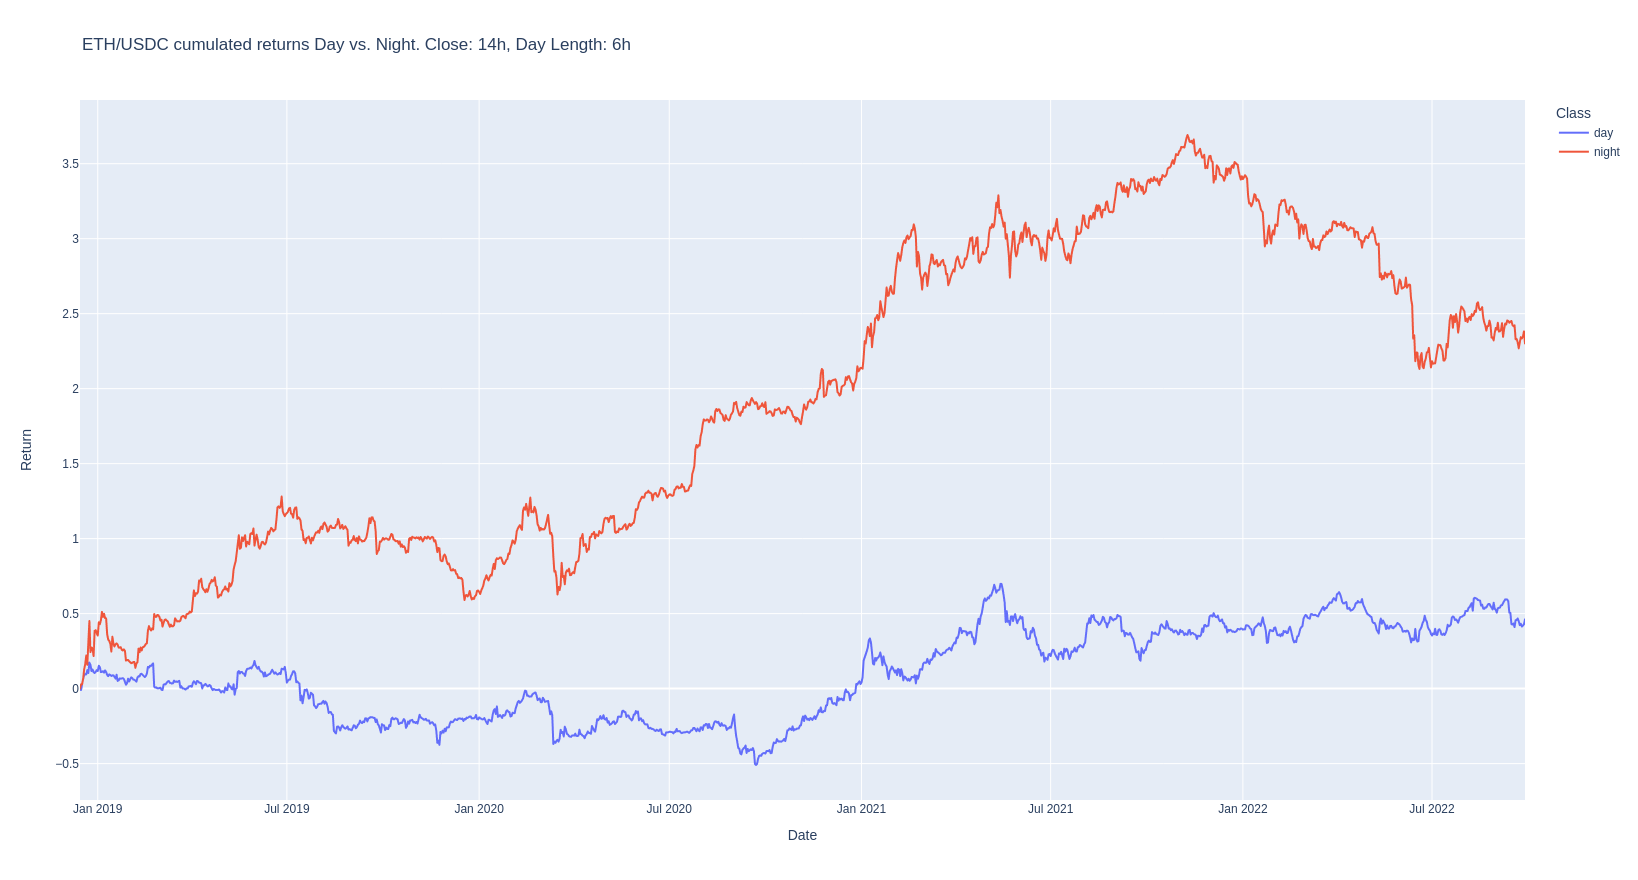
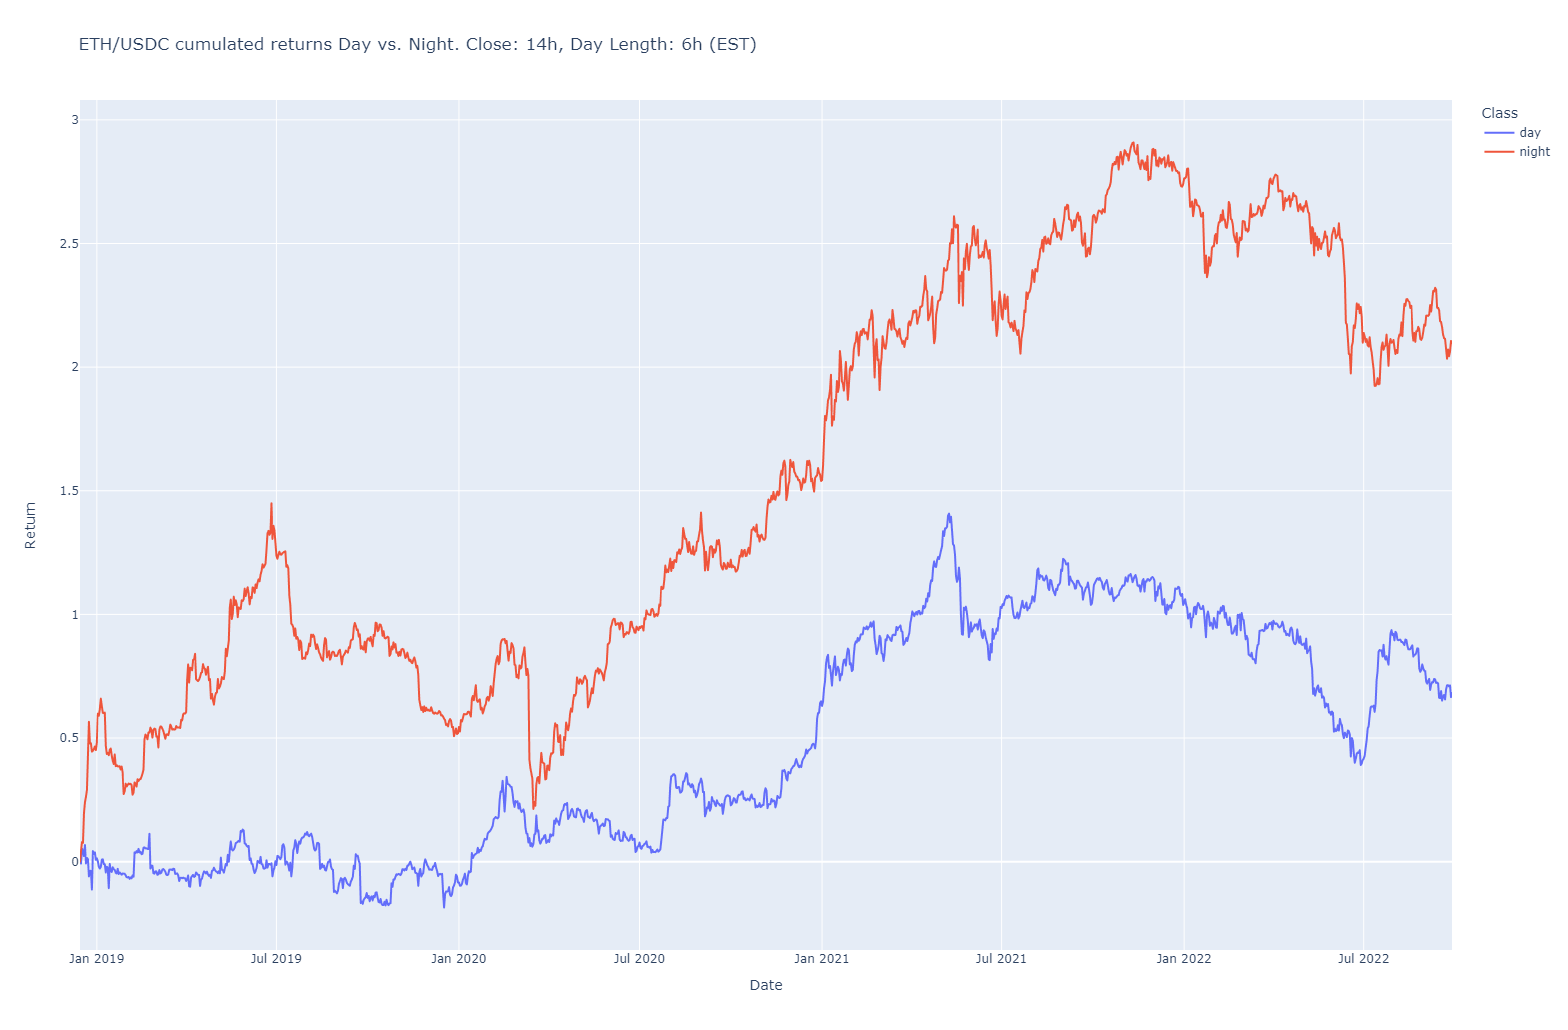
update to EST timezone

diff --git a/src/playground.py b/src/playground.py
@@ -1,35 +1,34 @@
 import os
 import numpy as np
 import pandas as pd
-from plotly import tools
+from plotly import subplots
 import plotly.express as px
 import plotly.graph_objects as go
+import pytz
 
 # load data
 filepath = os.path.join("data", "Binance_ETHUSDC_1h.csv")
 PAIR = "ETH/USDC"
 
 hdf = pd.read_csv(filepath, skiprows=1)
-hdf["DateTime"] = pd.to_datetime(hdf["Date"])
+hdf["DateTime"] = pd.to_datetime(hdf["Date"], utc=True).dt.tz_convert(pytz.timezone('EST'))
 hdf["Date"] = hdf["DateTime"].dt.date
 hdf["Hour"] = hdf["DateTime"].dt.hour
 hdf.head()
 
-
-# plot volume by hour
+# plot ETH volume by hour
 hmean = (
     hdf.groupby("Hour")
     .apply(lambda x: x["Volume ETH"].mean())
     .reset_index(name="Mean Volume")
 )
-px.bar(hmean, x="Hour", y="Mean Volume", title=PAIR + " Mean Volume by Hour").show()
+px.bar(hmean, x="Hour", y="Mean Volume", title=PAIR + " Mean Volume by Hour (EST)").show()
 
 
 # utility fonction to compute stats on returns
 def stats(s):
     c = s["Return"]
     return pd.Series({"Mean": c.mean() * 365, "Std": c.std() * np.sqrt(365)})
-
 
 def compute_class(hdf, closing_hour, day_length, should_sort=True):
     hour_start = (closing_hour - day_length) % 24
@@ -77,9 +76,9 @@ def all_stats(hdf, closing_hours, day_lengths):
 rdf = all_stats(hdf, range(0, 24), range(6, 12))
 
 # plotting heatmaps
-varName = "Mean"
+varName = "Sharpe"
 
-fig = tools.make_subplots(
+fig = subplots.make_subplots(
     rows=1, cols=2, print_grid=False, shared_yaxes=True, subplot_titles=("Day", "Night")
 )
 
@@ -104,13 +103,15 @@ fig.append_trace(
 fig = fig.update_layout(
     title_text=PAIR + " " + varName + " during Day and Night",
     coloraxis={"colorscale": "thermal"},
+    yaxis={"title": "Closing Hour (EST)"},
+    xaxis={"title": "Day Length (h)"}
 )
 fig.show()
 
 
 # plotting time series
-ch = 14
-dl = 6
+ch = 14 # closing hour
+dl = 6  # day length
 pdf = compute_class(hdf, ch, dl)
 
 tdf = (
@@ -126,7 +127,7 @@ px.line(
     x="Date",
     y="Return",
     color="Class",
-    title="{0} cumulated returns Day vs. Night. Close: {1}h, Day Length: {2}h".format(
+    title="{0} cumulated returns Day vs. Night. Close: {1}h, Day Length: {2}h (EST)".format(
         PAIR, ch, dl
     ),
 ).show()

diff --git a/README.md b/README.md
@@ -6,14 +6,25 @@ Original motivation comes from this analysis on the american stock index SP500:
 
 ![SP500](./images/SP500_NYT_CIRCADIAN.jpg)
 
-When running some analysis on the ETH/USDC pair, we find this breakdown of returns (day vs. night):
+When running some analysis on the ETH/USDC pair, we find the opposite
+(performing from open to close, steady from close to open). Keep in mind that
+timezone is EST.
 
-![DAY NIGHT](./images/ETHUSDC_14_6_RETURNS_DAY_NIGHT.png)
+![DAY NIGHT](./images/ETHUSDC_16_7_RETURNS_DAY_NIGHT.png)
 
-But no real stability can be demonstrated. When looking at sharpe ratios, day vs. night, for various combinations of closing and opening hours, we find this:
+But no real stability can be demonstrated. Let's look at sharpe ratios, day
+vs. night, for various combinations of closing and opening hours:
 
 ![Sharpe](./images/ETHUSDC_SHARPE_DAY_NIGHT.png)
 
-Mean volume of traded ETH by hour of day:
+For a slightly different combination of closing hour (14h) and day length (6h),
+we find a more mitigated result. Some dynamics at open and close may explain
+this. 
+
+![DAY NIGHT](./images/ETHUSDC_14_6_RETURNS_DAY_NIGHT.png)
+
+Another interesting view : Mean volume of traded ETH by hour of day (EST). We
+find a peek of activity at open (between 9am and 11am). Interestingly, the
+bottom of activity is at closing time (4pm).
 
 ![Volume](./images/ETHUSDC_MEAN_VOL_PER_HOUR.png)
